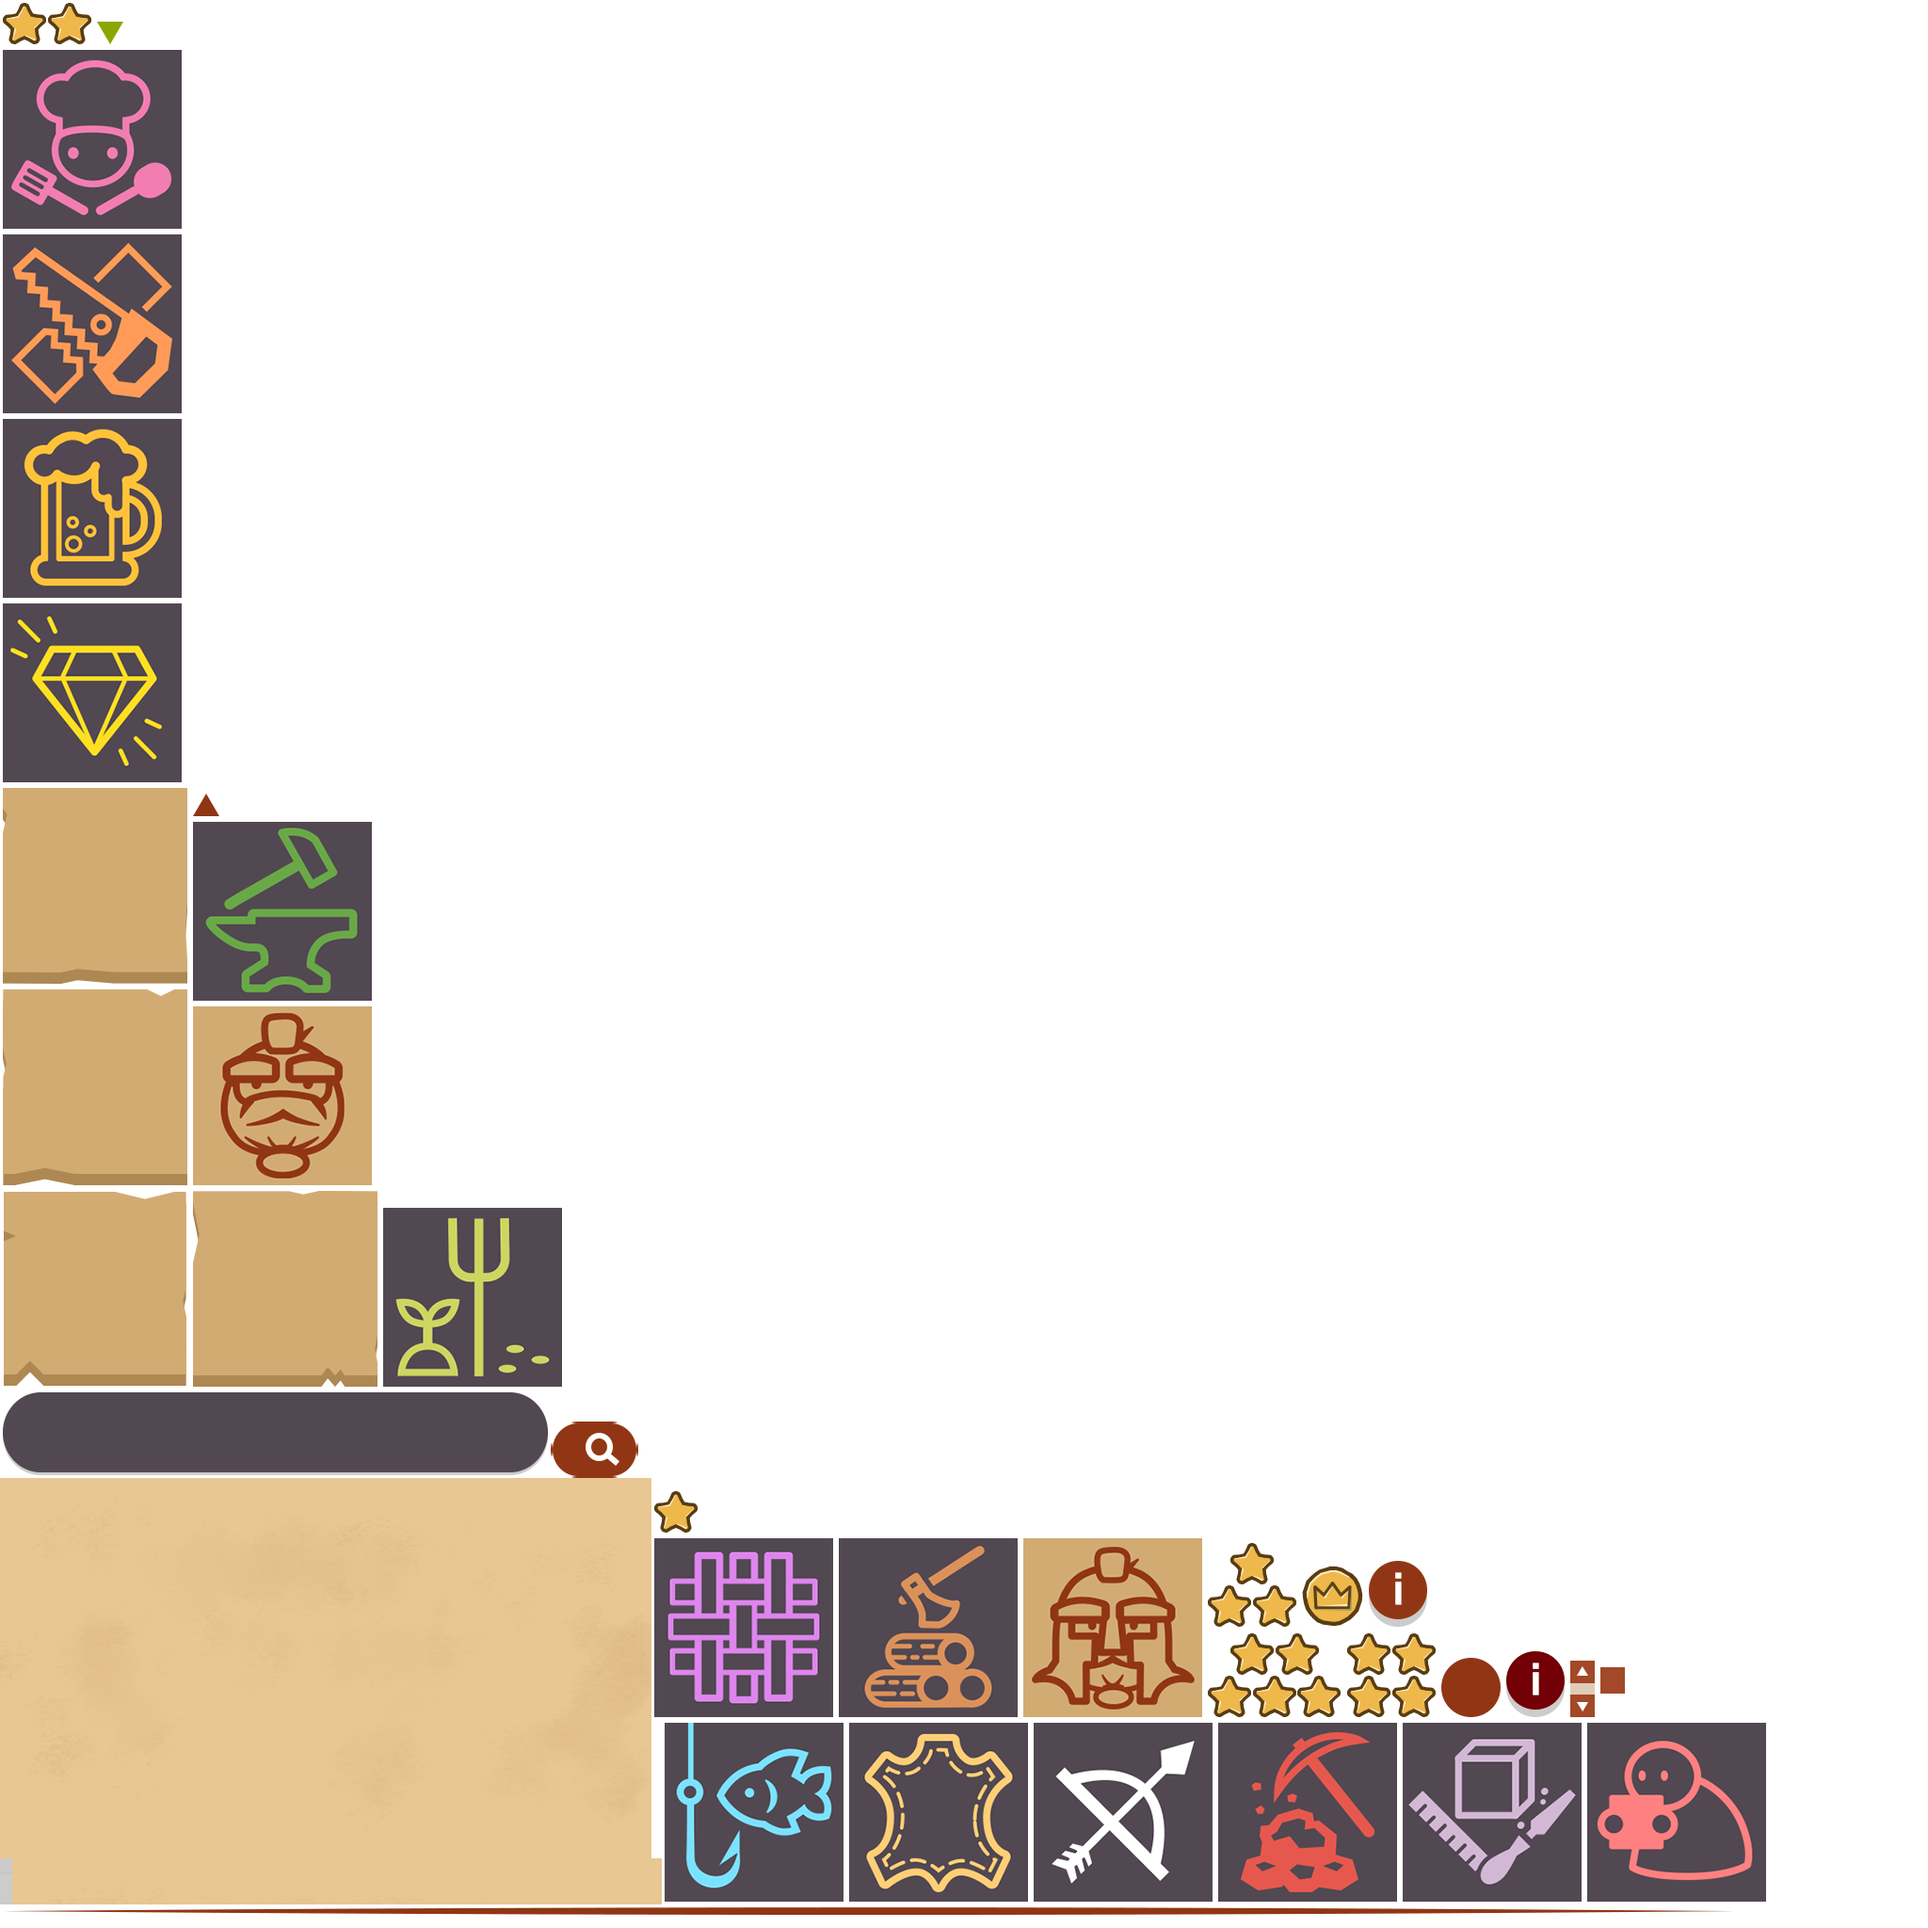
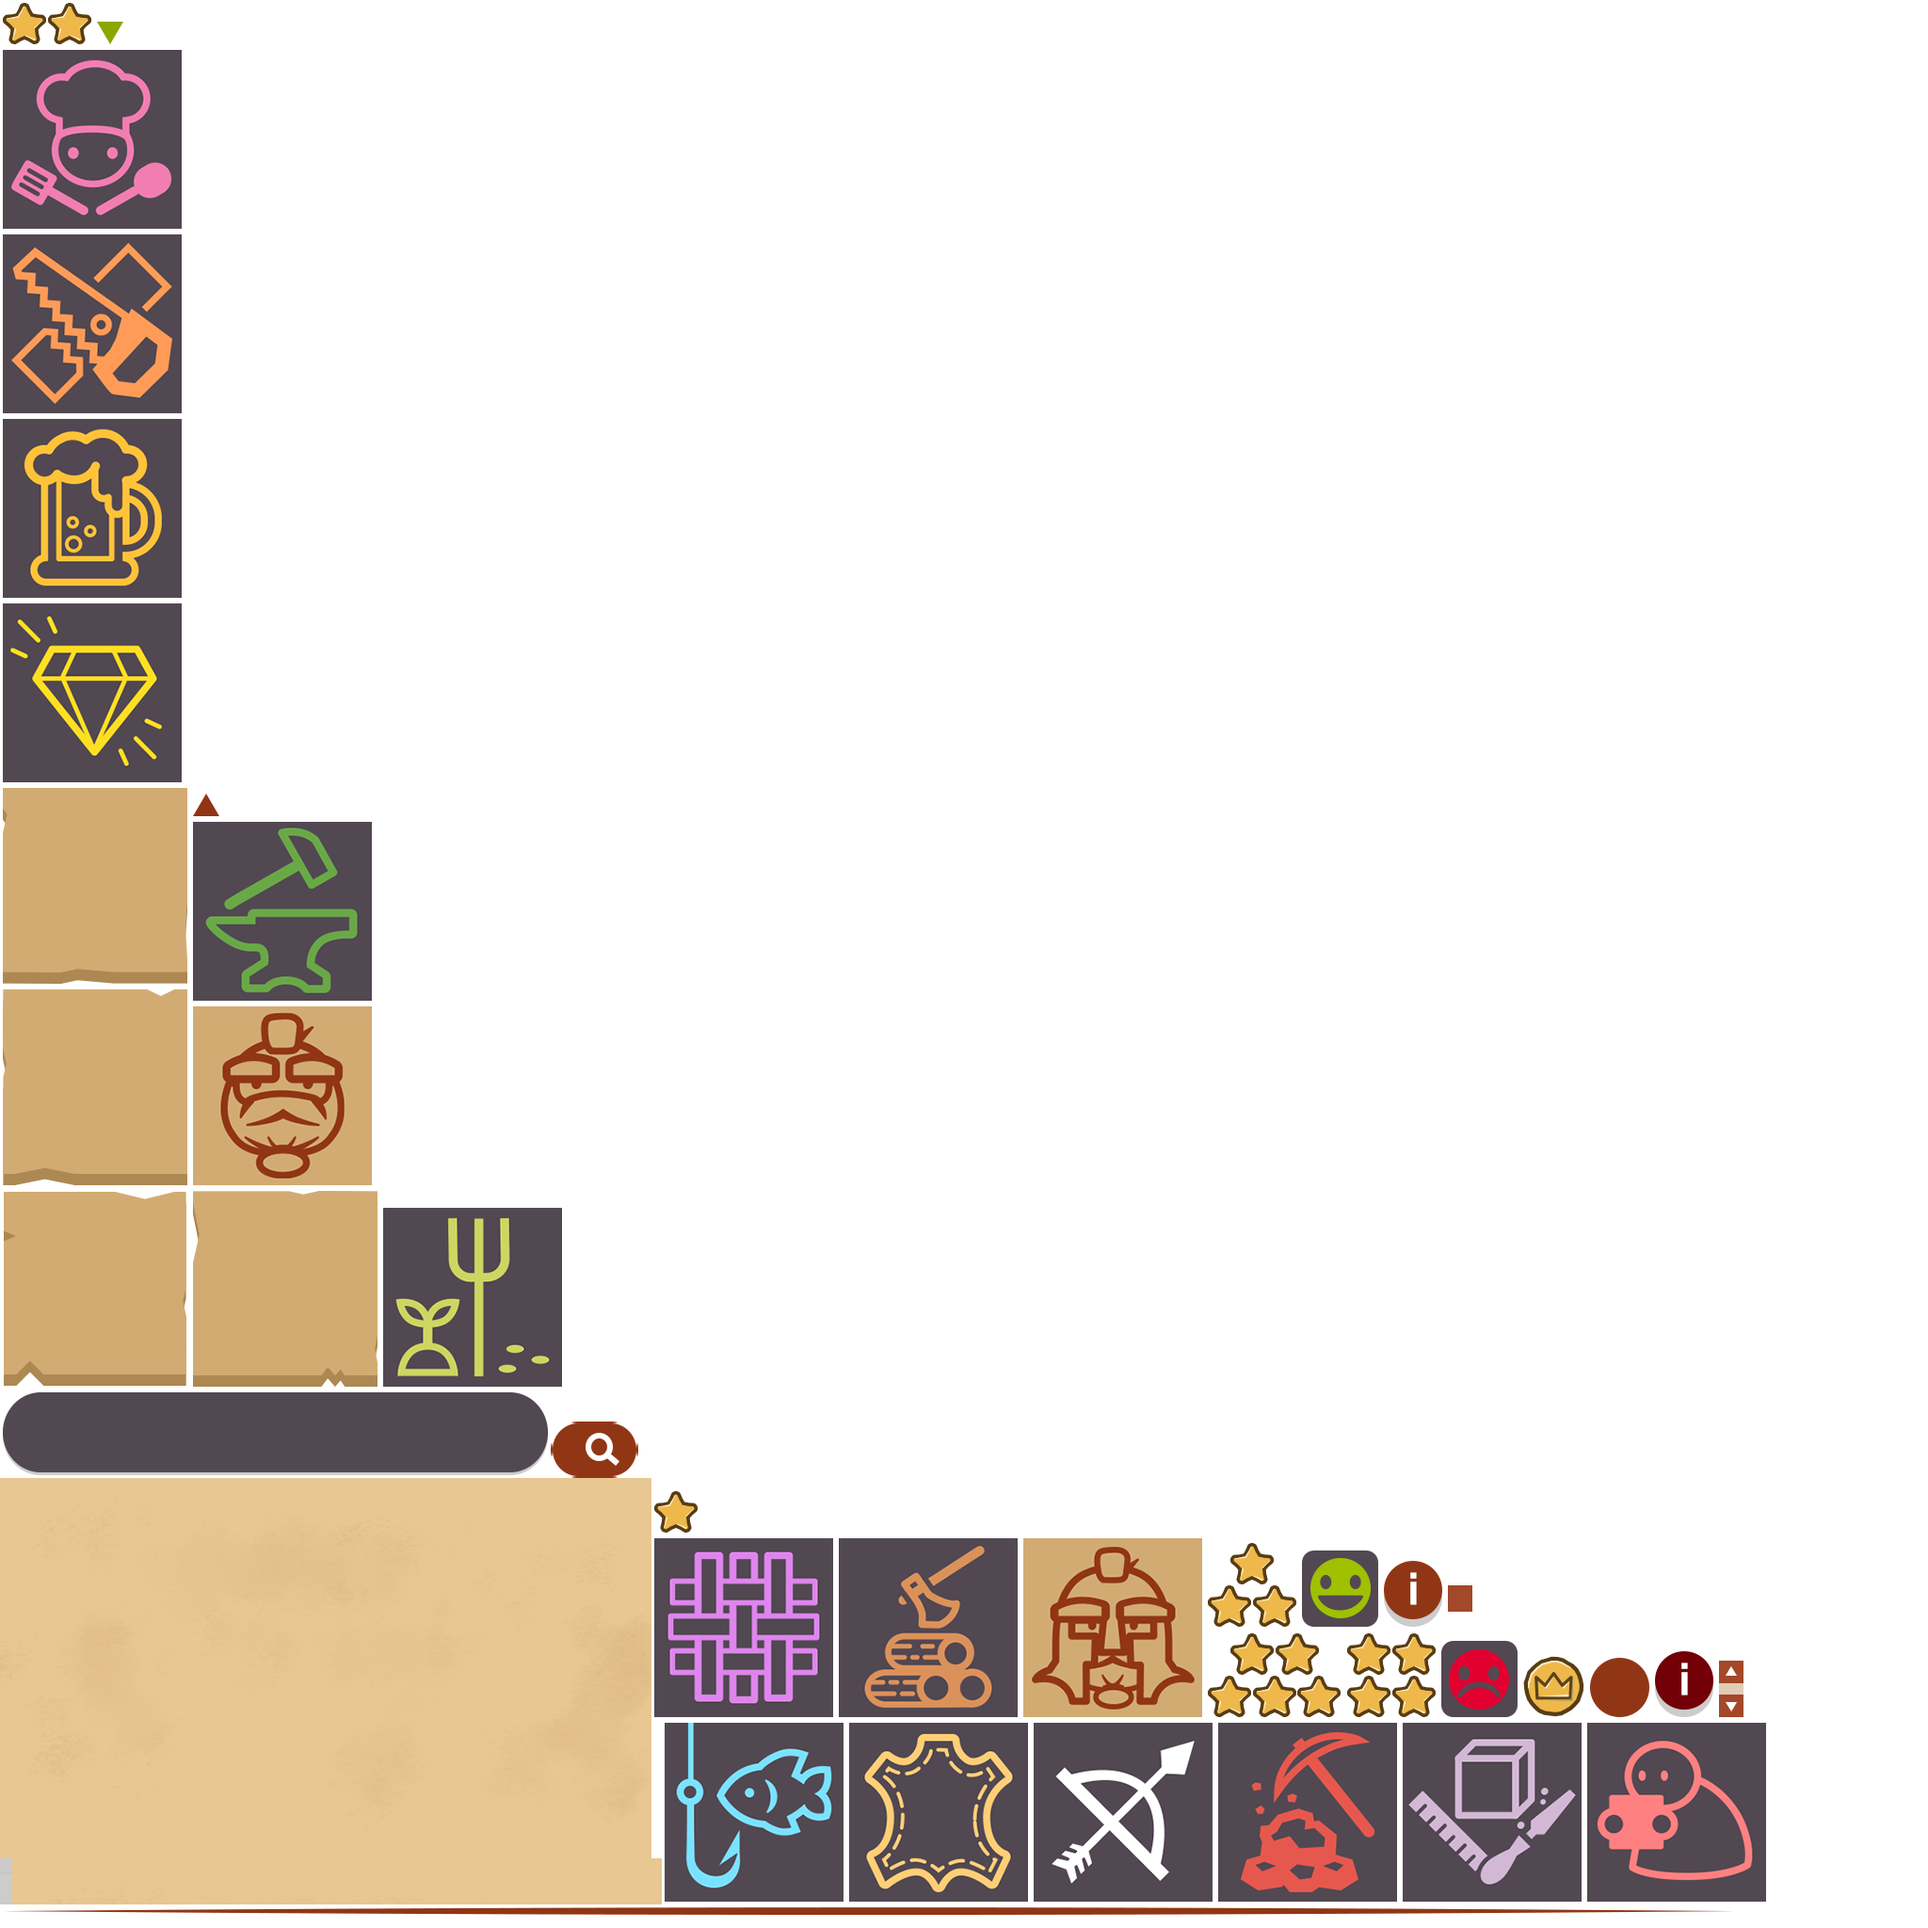
Added happiness column

Changed region(s): [[0.6562, 0.7812, 0.9062, 0.9062]]

diff --git a/core/src/main/java/technology/rocketjump/saul/screens/SettlerManagementScreen.java b/core/src/main/java/technology/rocketjump/saul/screens/SettlerManagementScreen.java
@@ -22,9 +22,12 @@ import technology.rocketjump.saul.jobs.model.Skill;
 import technology.rocketjump.saul.rendering.entities.EntityRenderer;
 import technology.rocketjump.saul.settlement.SettlerTracker;
 import technology.rocketjump.saul.ui.cursor.GameCursor;
+import technology.rocketjump.saul.ui.eventlistener.TooltipFactory;
+import technology.rocketjump.saul.ui.eventlistener.TooltipLocationHint;
 import technology.rocketjump.saul.ui.i18n.DisplaysText;
 import technology.rocketjump.saul.ui.i18n.I18nText;
 import technology.rocketjump.saul.ui.i18n.I18nTranslator;
+import technology.rocketjump.saul.ui.i18n.I18nWord;
 import technology.rocketjump.saul.ui.skins.GuiSkinRepository;
 import technology.rocketjump.saul.ui.skins.ManagementSkin;
 import technology.rocketjump.saul.ui.skins.MenuSkin;
@@ -37,6 +40,7 @@ import javax.inject.Singleton;
 import java.util.ArrayList;
 import java.util.Collection;
 import java.util.Comparator;
+import java.util.Map;
 import java.util.function.Function;
 
 @Singleton
@@ -74,6 +78,7 @@ public class SettlerManagementScreen extends AbstractGameScreen implements Displ
 	private final SkillDictionary skillDictionary;
 	private final SettlerTracker settlerTracker;
 	private final EntityRenderer entityRenderer;
+	private final TooltipFactory tooltipFactory;
 
 	private GameContext gameContext;
 	private Stack stack;
@@ -84,7 +89,8 @@ public class SettlerManagementScreen extends AbstractGameScreen implements Displ
 	@Inject
 	public SettlerManagementScreen(MessageDispatcher messageDispatcher, GuiSkinRepository guiSkinRepository,
 	                               I18nTranslator i18nTranslator, LabelFactory labelFactory, ButtonFactory buttonFactory,
-	                               SkillDictionary skillDictionary, SettlerTracker settlerTracker, EntityRenderer entityRenderer) {
+	                               SkillDictionary skillDictionary, SettlerTracker settlerTracker, EntityRenderer entityRenderer,
+	                               TooltipFactory tooltipFactory) {
 		this.menuSkin = guiSkinRepository.getMenuSkin();
 		this.managementSkin = guiSkinRepository.getManagementSkin();
 		this.i18nTranslator = i18nTranslator;
@@ -94,6 +100,7 @@ public class SettlerManagementScreen extends AbstractGameScreen implements Displ
 		this.messageDispatcher = messageDispatcher;
 		this.settlerTracker = settlerTracker;
 		this.entityRenderer = entityRenderer;
+		this.tooltipFactory = tooltipFactory;
 	}
 
 	@Override
@@ -224,21 +231,63 @@ public class SettlerManagementScreen extends AbstractGameScreen implements Displ
 		//TODO: apply filters and sorts here
 
 		Table settlersTable = new Table();
-		//TODO: most of these components should be reusable on entity selection views
 		for (Entity settler : settlers) {
 			Table mugshotColumn = mugshot(settler);
 			Table textSummaryColumn = textSummary(settler);
+			Table happinessColumn = happiness(settler);
 
 
-			Table row = new Table();
-			row.debugAll();
-			row.add(mugshotColumn).spaceRight(50f);
-			row.add(textSummaryColumn).fillX().spaceRight(50f);
 
-			settlersTable.add(row).left().uniformX().row();
+			settlersTable.debugAll();
+			settlersTable.add(mugshotColumn).spaceRight(50f);
+			settlersTable.add(textSummaryColumn).fillX().spaceRight(50f);
+			settlersTable.add(happinessColumn).spaceRight(50f);
+
+			settlersTable.left().row();
 		}
 
 		scrollPane.setActor(settlersTable);
+	}
+
+	private Table happiness(Entity settler) {
+		HappinessComponent happinessComponent = settler.getComponent(HappinessComponent.class);
+		int netHappiness = happinessComponent.getNetModifier();
+		String netHappinessString = (netHappiness > 0 ? "+" : "") + netHappiness;
+		String happinessText = i18nTranslator.getTranslatedWordWithReplacements("GUI.SETTLER_MANAGEMENT.HAPPINESS", Map.of(
+				"happinessValue", new I18nWord(netHappinessString)
+		)).toString();
+		Label happinessLabel = tableLabel(happinessText);
+
+		Table modifiersTable = new Table();
+		int modifierCount = 1;
+		for (HappinessComponent.HappinessModifier modifier : happinessComponent.currentModifiers()) {
+			int modifierAmount = modifier.modifierAmount;
+			final String drawableName;
+			if (modifierAmount > 0) {
+				drawableName = "icon_happy";
+			} else {
+				drawableName = "icon_sad";
+			}
+			Image modifierImage = new Image(managementSkin.getDrawable(drawableName));
+			tooltipFactory.simpleTooltip(modifierImage, modifier.getI18nKey(), TooltipLocationHint.BELOW);
+
+			modifiersTable.add(modifierImage).space(10f);
+
+			if (modifierCount % 5 == 0) {
+				modifiersTable.row();
+			}
+			modifierCount++;
+		}
+
+
+
+		Table table = new Table();
+		table.add(happinessLabel).row();
+		table.add(modifiersTable);
+
+
+
+		return table;
 	}
 
 	private Table textSummary(Entity settler) {
@@ -253,14 +302,14 @@ public class SettlerManagementScreen extends AbstractGameScreen implements Displ
 		}
 
 		Table table = new Table();
-		Label nameLabel = new Label(settlerName, managementSkin, "table_value_label");
+		Label nameLabel = tableLabel(settlerName);
 		nameLabel.setAlignment(Align.left);
-		table.add(nameLabel).fillX().row();
+		table.add(nameLabel).growX().row();
 
 		for (String behaviourDescription : behaviourDescriptions) {
-			Label descriptionLabel = new Label(behaviourDescription, managementSkin, "table_value_label");
+			Label descriptionLabel = tableLabel(behaviourDescription);
 			descriptionLabel.setAlignment(Align.left);
-			table.add(descriptionLabel).fillX().row();
+			table.add(descriptionLabel).growX().row();
 		}
 
 		return table;
@@ -285,5 +334,9 @@ public class SettlerManagementScreen extends AbstractGameScreen implements Displ
 	@Override
 	public void clearContextRelatedState() {
 
+	}
+
+	private Label tableLabel(String text) {
+		return new Label(text, managementSkin, "table_value_label");
 	}
 }
